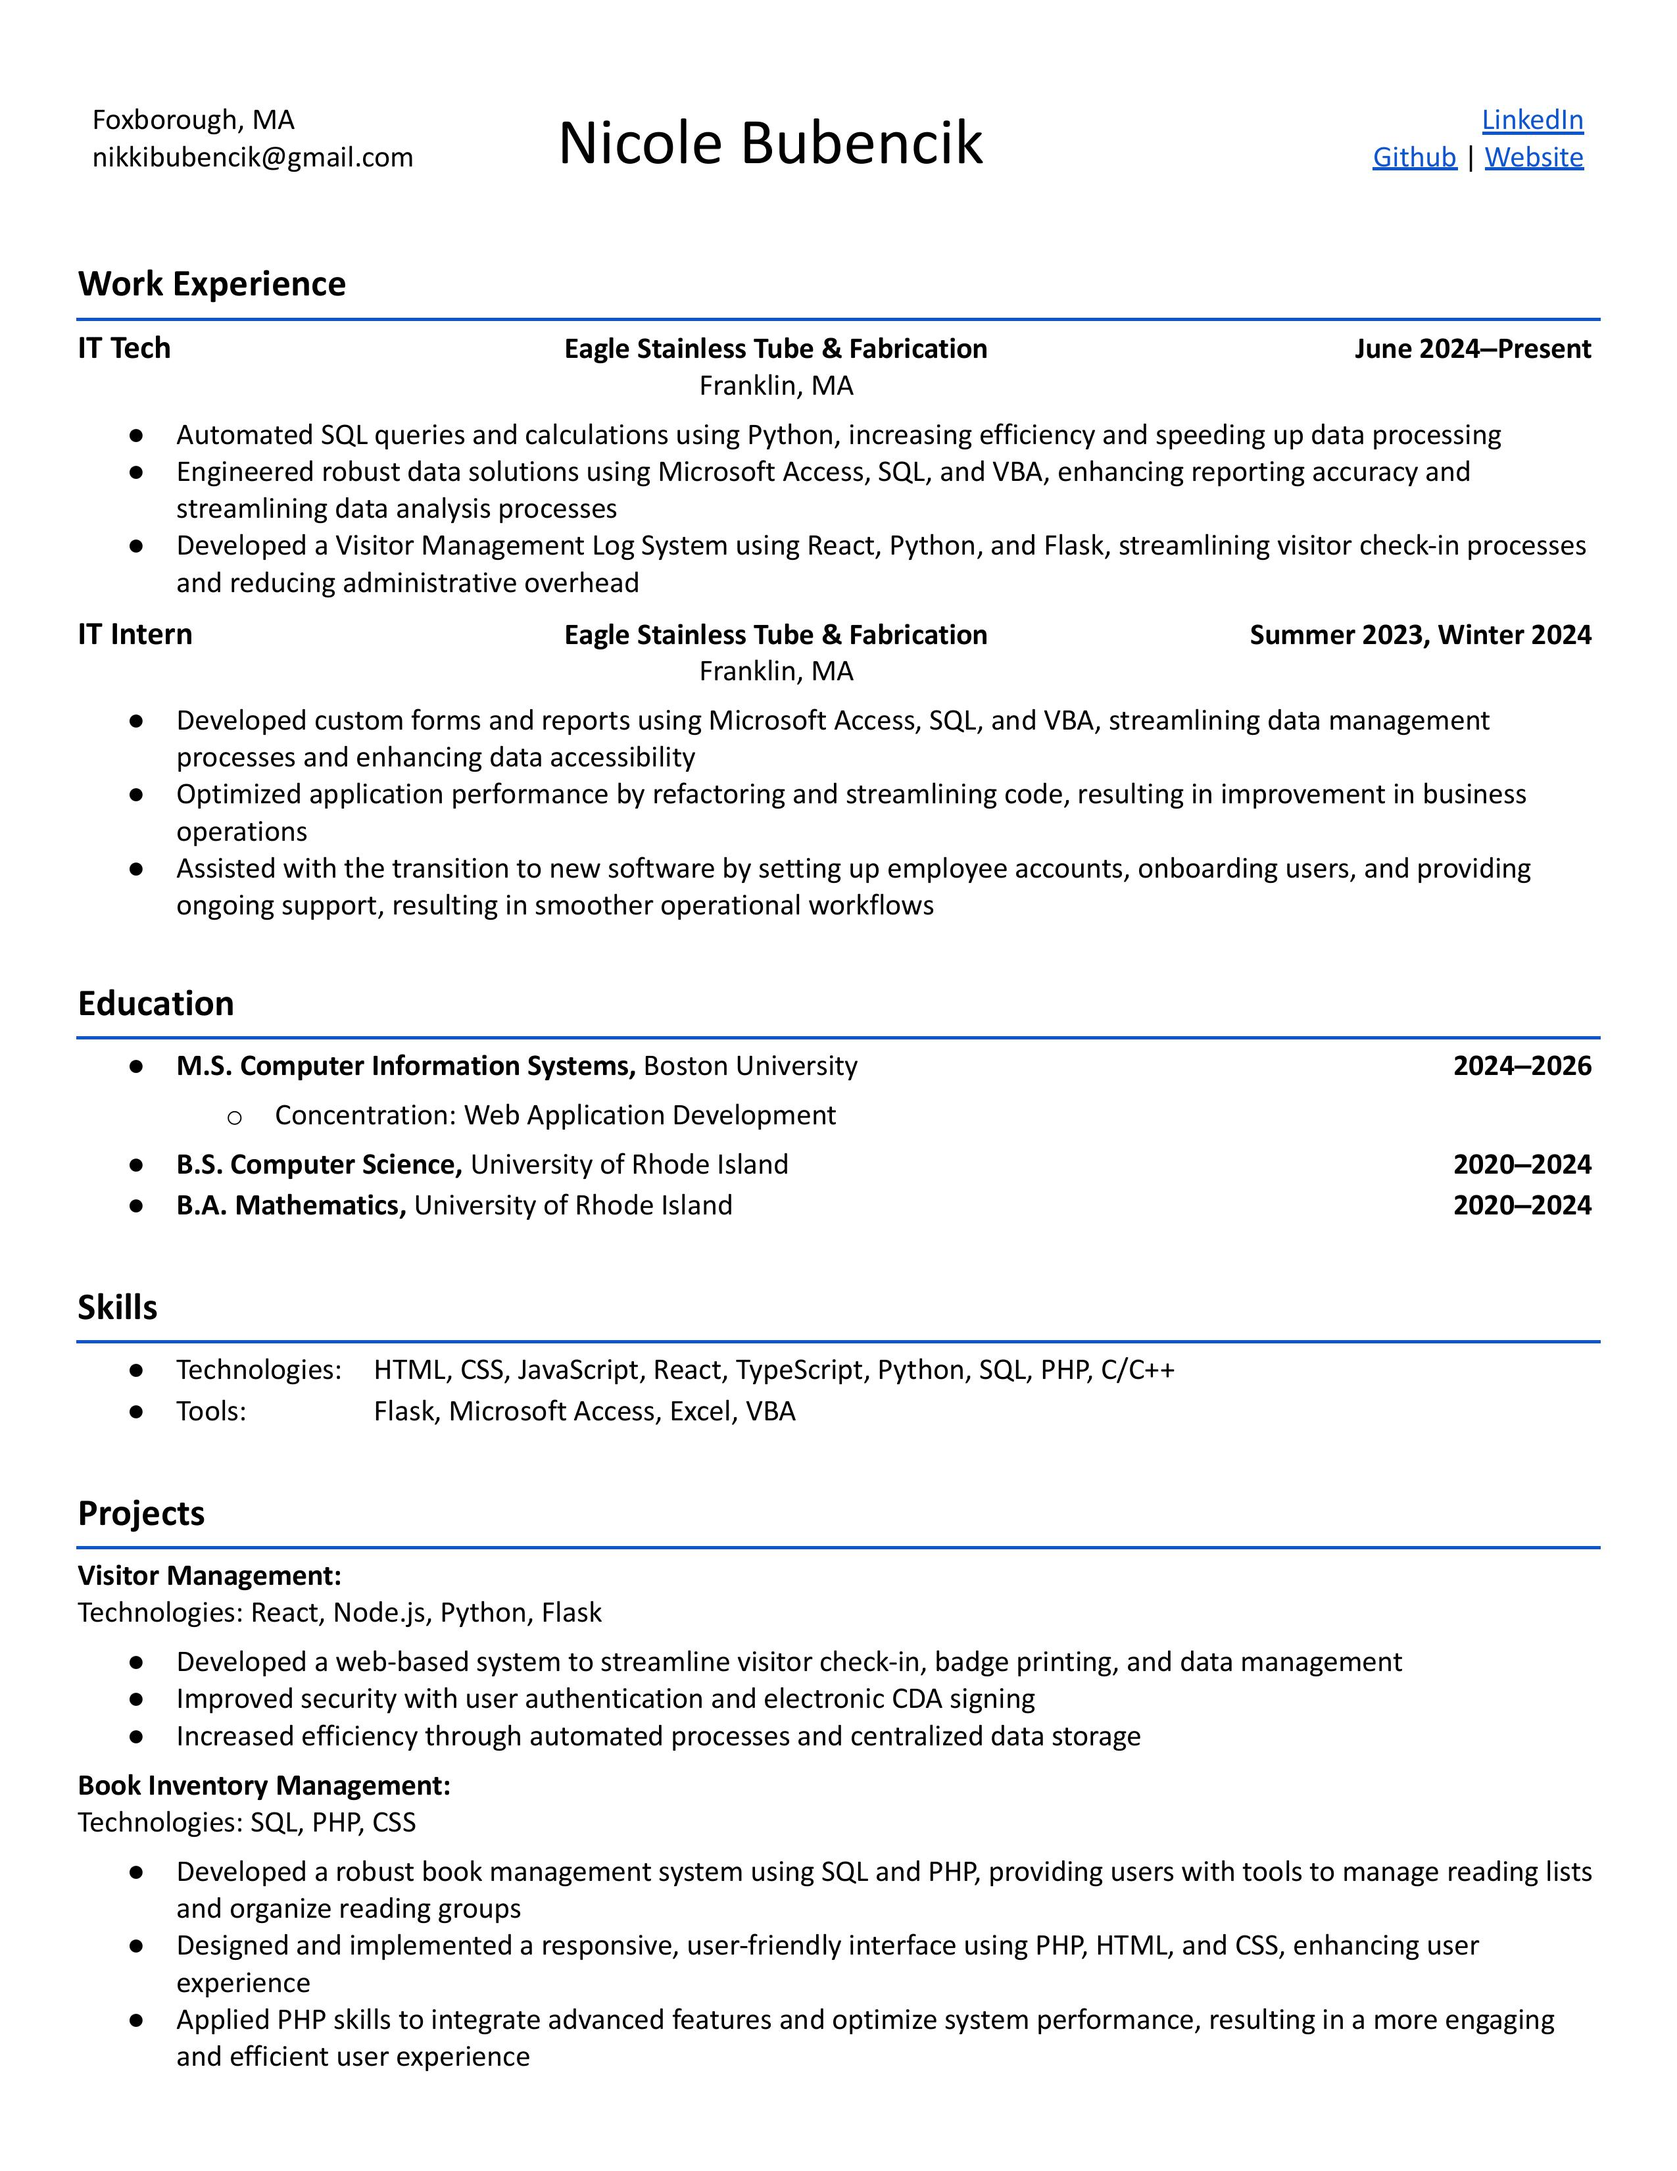
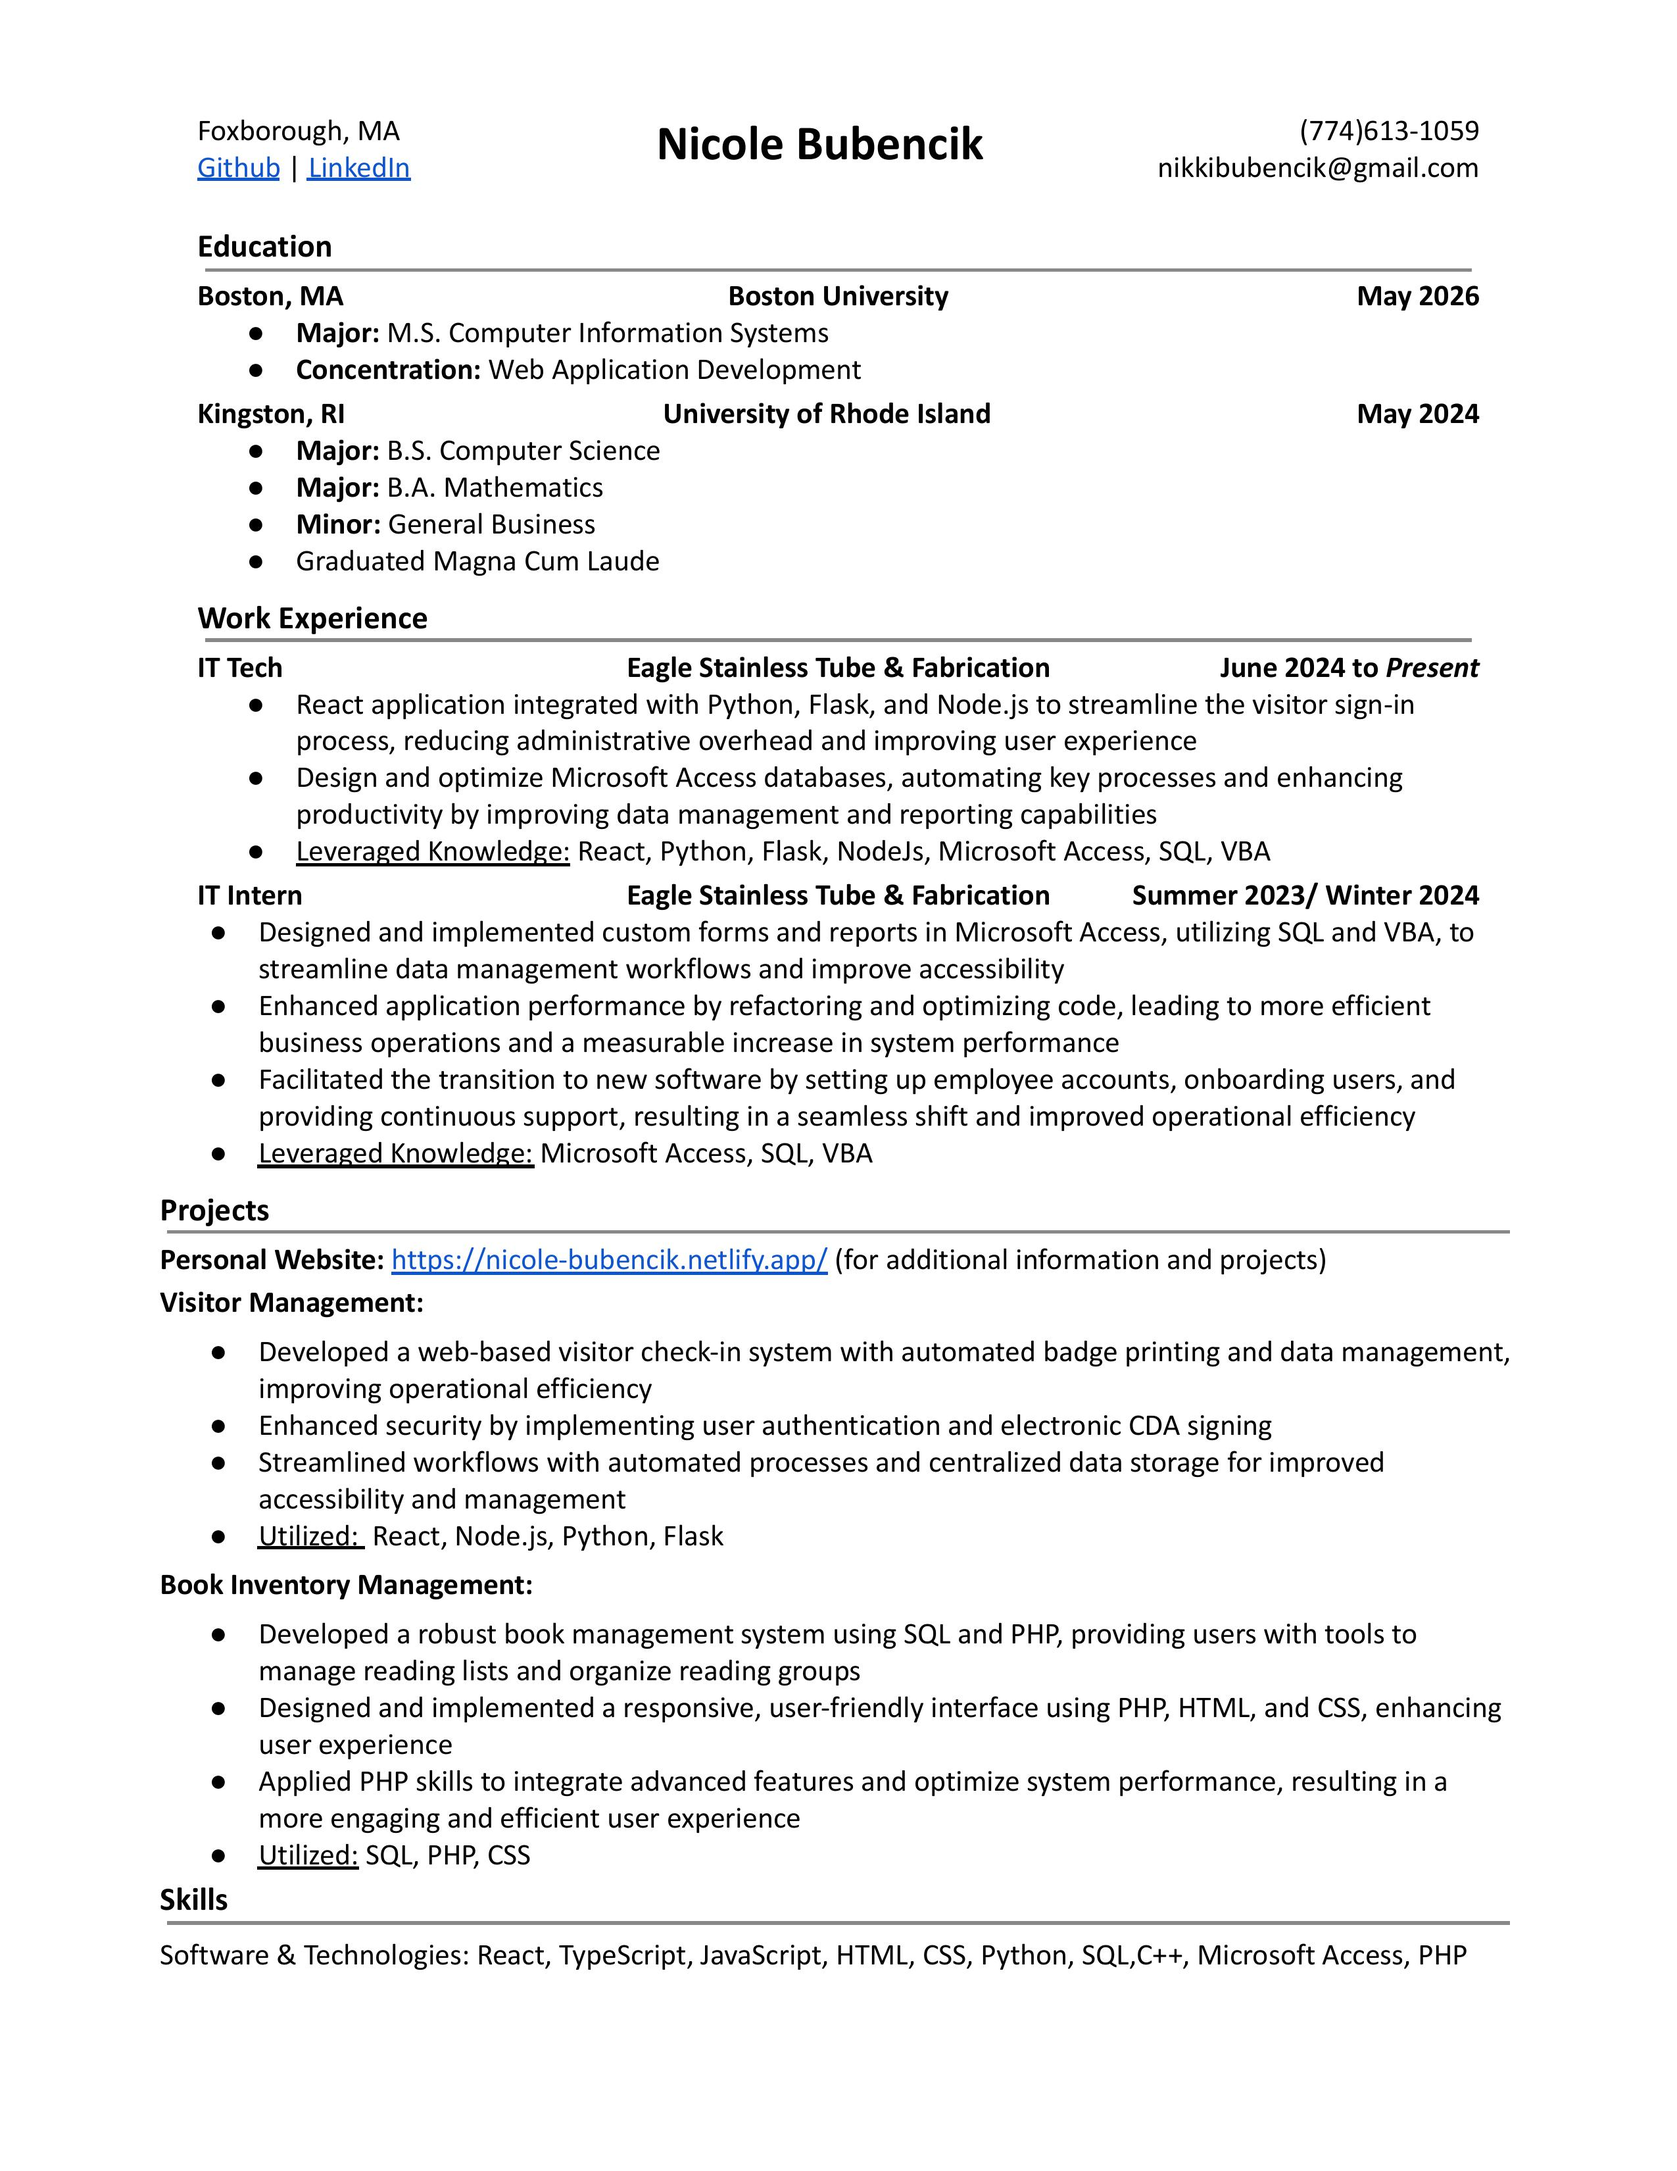
update Resume and ReadMe

diff --git a/README.md b/README.md
@@ -1,1 +1,3 @@
-Under Construction
+# Portfolio - [Your Name]
+
+Welcome to my GitHub portfolio! This repository showcases the projects I’ve worked on, the courses I’ve taken, and my professional resume. 
